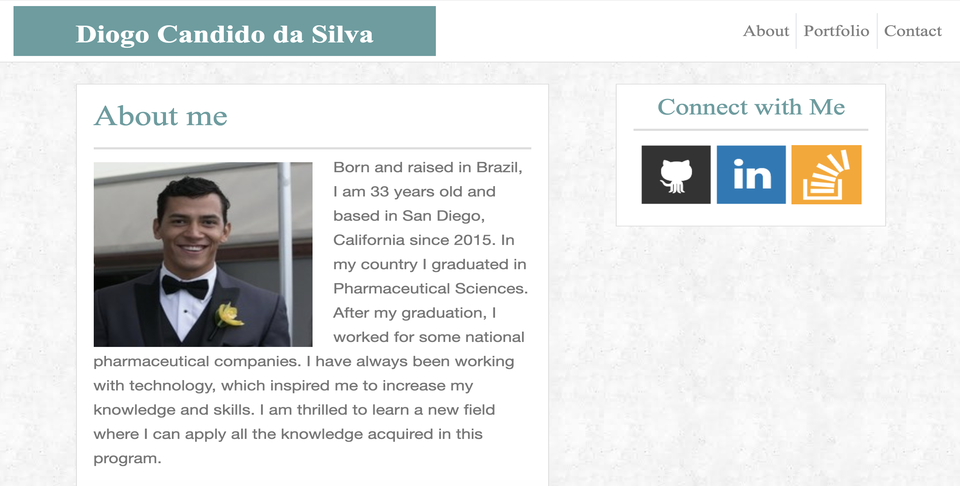
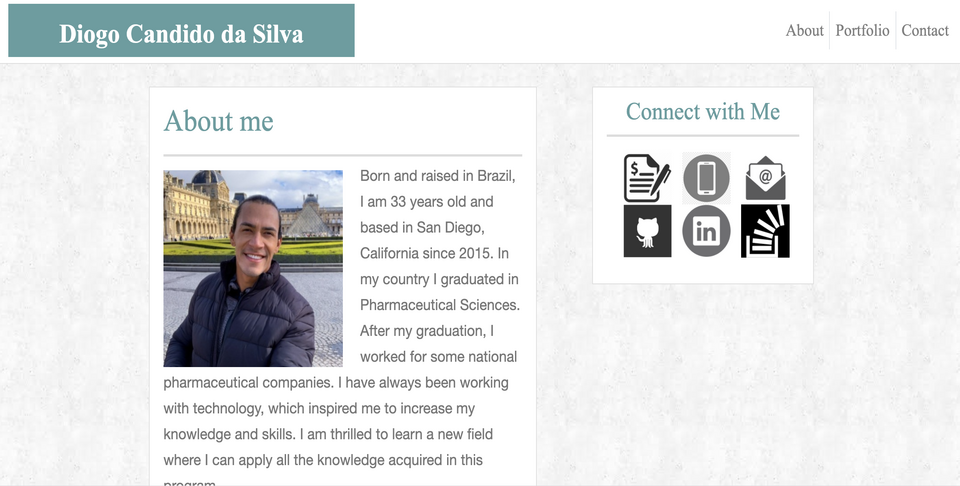
Homework corrected

diff --git a/index.html b/index.html
@@ -39,7 +39,7 @@
       <div class="row">
         <div class="col-md-7 col-sm-12 main-section">
           <h1 class="h1">About me</h1>
-          <img src="https://media-exp1.licdn.com/dms/image/C5103AQECmgq-V1lPNQ/profile-displayphoto-shrink_200_200/0?e=1598486400&v=beta&t=k3q7WO2itFZfAITv2F2AiO0w010YY7tMfq6ZhdkR56I"  class="image" alt="Diogo Candido da Silva">
+          <img src="https://media-exp1.licdn.com/dms/image/C5603AQGJSnTjHutMEg/profile-displayphoto-shrink_400_400/0?e=1604534400&v=beta&t=SnGQzYmOdtx5tVIpNCjweMy6TGPObg2lRjOp7BzCZ3k"  class="image" alt="Diogo Candido da Silva">
           <p>Born and raised in Brazil, I am 33 years old and based in San Diego, California since 2015. In my country I graduated in Pharmaceutical Sciences. After my graduation, I worked for some national pharmaceutical companies. I have always been working with technology, which inspired me to increase my knowledge and skills. I am thrilled to learn a new field where I can apply all the knowledge acquired in this program.</p>
           <p> In my free time, I like to gather with my family and friends, travel, work out, learn new things and listen to music.</p>
         </div>
@@ -47,10 +47,14 @@
         
       <div class="col-xs-4 col-xs-offset-1 text-center sidebar main-section" id="link-box">
         <h2 class="h2">Connect with Me</h2>
+          <a href="https://docs.google.com/document/d/1aquHridrPPGNmP3TA0UdiqUmw22Xkb6aHnghg5QcpaQ/edit"><img src="./assets/resume-icon.png" class="social" alt="Resume"></a>
+          <a href="tel:+16198418934"><img src="./assets/phone-icon.png" class="social" alt="phone"></a>
+          <a href="mailto: diogocandido.s@gmail.com"><img src="./assets/email-icon.png" class="social" alt="email"></a>
           <a href="https://github.com/diogocandidos"><img src="assets/github.png" class="social" alt="GitHub"></a>
-          <a href="https://www.linkedin.com/in/diogo-candido-da-silva-26061811a/"><img src="assets/linkedin.png" class="social" alt="LinkedIn" /></a>
-          <a href="https://stackoverflow.com/users/13009471/diogo-candido-da-silva?tab=profile"><img src="assets/stackoverflow.png" class="social" alt="Stack Overflow" /></a>
-      </div>
+          <a href="https://www.linkedin.com/in/diogo-candido-da-silva-26061811a/"><img src="assets/linkedin-icon.png" class="social" alt="LinkedIn" /></a>
+          <a href="https://stackoverflow.com/users/13009471/diogo-candido-da-silva?tab=profile"><img src="assets/stackover-icon (1).png" class="social" alt="Stack Overflow" /></a>
+      
+        </div>
     </div>
     </div>
   </section> 

diff --git a/portfolio.html b/portfolio.html
@@ -40,43 +40,36 @@
         <div class="col-10 main-section">
           <h1 class="h1">Portfolio</h1>
           
-          <div class="work">
-            <a href="https://mando619.github.io/Mood-Me-/">
+          <div class="work">          
+            <a href="https://github.com/Mando619/Mood-Me-/">
             <img src="assets/moodme.png" class="portfoliopics" alt="Mood Me">
           </a>
             <h3>Mood Me</h3>
           </div>
 
           <div class="work">
-            <a href="https://diogocandidos.github.io/Code-Quiz/">
+            <a href="https://github.com/diogocandidos/Code-Quiz/">
             <img src="assets/codequiz.png" class="portfoliopics" alt="Code Quiz">
             </a>
             <h3>Code Quiz</h3>
           </div>
 
           <div class="work">
-            <a href="https://diogocandidos.github.io/Calendar/">
+            <a href="https://github.com/diogocandidos/Calendar/">
             <img src="assets/calendar.png" class="portfoliopics" alt="Day Planner">
           </a>
             <h3>Day Planner</h3>
           </div>
 
           <div class="work">
-            <a href="https://diogocandidos.github.io/Password-Generator/">
+            <a href="https://github.com/diogocandidos/Password-Generator/">
             <img src="assets/passwordgenerator.png" class="portfoliopics" alt="Password Generator">
             </a>
             <h3>Password Generator</h3>
           </div>
           
         </div>
-       
-        <div class="col-xs-4 text-center sidebar main-section" id="link-box">
-          <h2 class="h2">Connect with Me</h2>
-            <a href="https://github.com/diogocandidos"><img src="assets/github.png" class="social" alt="GitHub"></a>
-            <a href="https://www.linkedin.com/in/diogo-candido-da-silva-26061811a/"><img src="assets/linkedin.png" class="social" alt="LinkedIn" /></a>
-            <a href="https://stackoverflow.com/users/13009471/diogo-candido-da-silva?tab=profile"><img src="assets/stackoverflow.png" class="social" alt="Stack Overflow" /></a>
-        </div>
-
+               
       </div>
     </div>
   </section> 

diff --git a/contact.html b/contact.html
@@ -61,10 +61,14 @@
         
         <div class="col-xs-4 col-xs-offset-1 text-center sidebar main-section" id="link-box">
           <h2 class="h2">Connect with Me</h2>
+            <a href="https://docs.google.com/document/d/1aquHridrPPGNmP3TA0UdiqUmw22Xkb6aHnghg5QcpaQ/edit"><img src="./assets/resume-icon.png" class="social" alt="Resume"></a>
+            <a href="tel:+16198418934"><img src="./assets/phone-icon.png" class="social" alt="phone"></a>
+            <a href="mailto: diogocandido.s@gmail.com"><img src="./assets/email-icon.png" class="social" alt="email"></a>
             <a href="https://github.com/diogocandidos"><img src="assets/github.png" class="social" alt="GitHub"></a>
-            <a href="https://www.linkedin.com/in/diogo-candido-da-silva-26061811a/"><img src="assets/linkedin.png" class="social" alt="LinkedIn" /></a>
-            <a href="https://stackoverflow.com/users/13009471/diogo-candido-da-silva?tab=profile"><img src="assets/stackoverflow.png" class="social" alt="Stack Overflow" /></a>
-        </div>
+            <a href="https://www.linkedin.com/in/diogo-candido-da-silva-26061811a/"><img src="assets/linkedin-icon.png" class="social" alt="LinkedIn" /></a>
+            <a href="https://stackoverflow.com/users/13009471/diogo-candido-da-silva?tab=profile"><img src="assets/stackover-icon (1).png" class="social" alt="Stack Overflow" /></a>
+        
+          </div>
       </div>
     </div>
   </section> 

diff --git a/assets/style.css b/assets/style.css
@@ -100,10 +100,11 @@ body {
     float: left;
   }
 
-  #link-box {height: 200px;}
+  #link-box {height: 260px;}
 
   .social {
-    width: 30%;
+    width: 25%;
+    margin-left: 10px;
   }
   
   /*portfolio page*/

diff --git a/README.md b/README.md
@@ -5,11 +5,11 @@ In accordance with the requirement for this project, I created a Responsive Port
 
 Finally, to conclude the task I validated the links in html and inspected them to confirm that they had the correct dimensions. 
 
-<img width="480" alt="about" src="https://user-images.githubusercontent.com/61811579/91216898-8a399300-e6cb-11ea-8172-2b5665dee675.png">
+<img width="500" alt="about" src="https://user-images.githubusercontent.com/61811579/91779564-da709380-ebaa-11ea-9bcc-3e76c02a6e49.png">
 
-<img width="480" alt="portfolio" src="https://user-images.githubusercontent.com/61811579/91217064-ca007a80-e6cb-11ea-85e9-4ff9815aa4cf.png">
+<img width="500" alt="portfolio" src="https://user-images.githubusercontent.com/61811579/91217064-ca007a80-e6cb-11ea-85e9-4ff9815aa4cf.png">
 
-<img width="480" alt="contact" src="https://user-images.githubusercontent.com/61811579/91217077-cff65b80-e6cb-11ea-936a-514747b589f4.png">
+<img width="500" alt="contact" src="https://user-images.githubusercontent.com/61811579/91779580-e8beaf80-ebaa-11ea-8399-f9aa623ac2d0.png">
 
 Link: https://diogocandidos.github.io/responsive-portfolio/
  
@@ -18,3 +18,4 @@ Link: https://diogocandidos.github.io/responsive-portfolio/
  - HTML
  - CSS 
  - Bootstrap
+ - JavaScript
